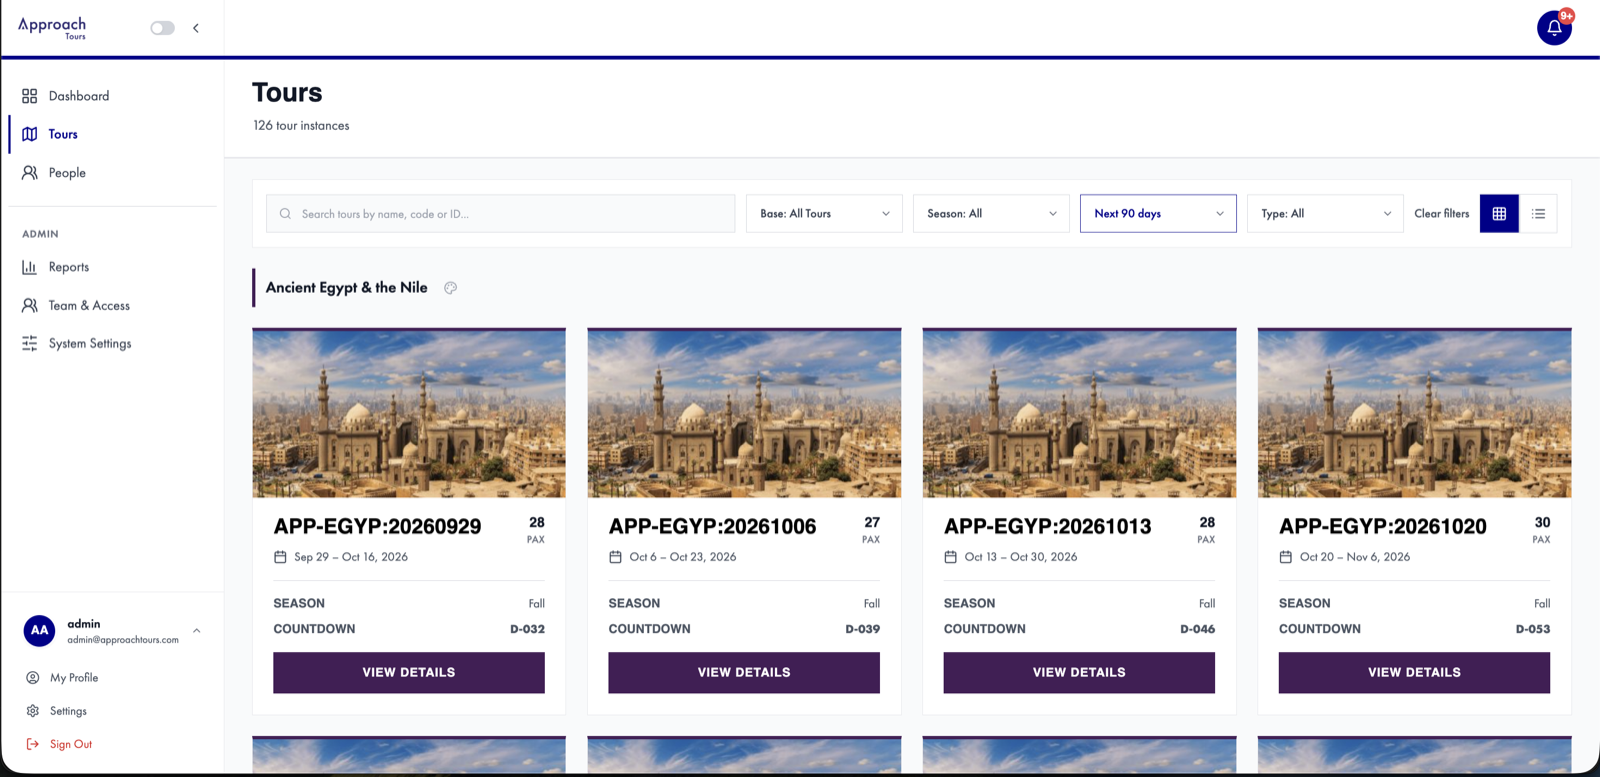
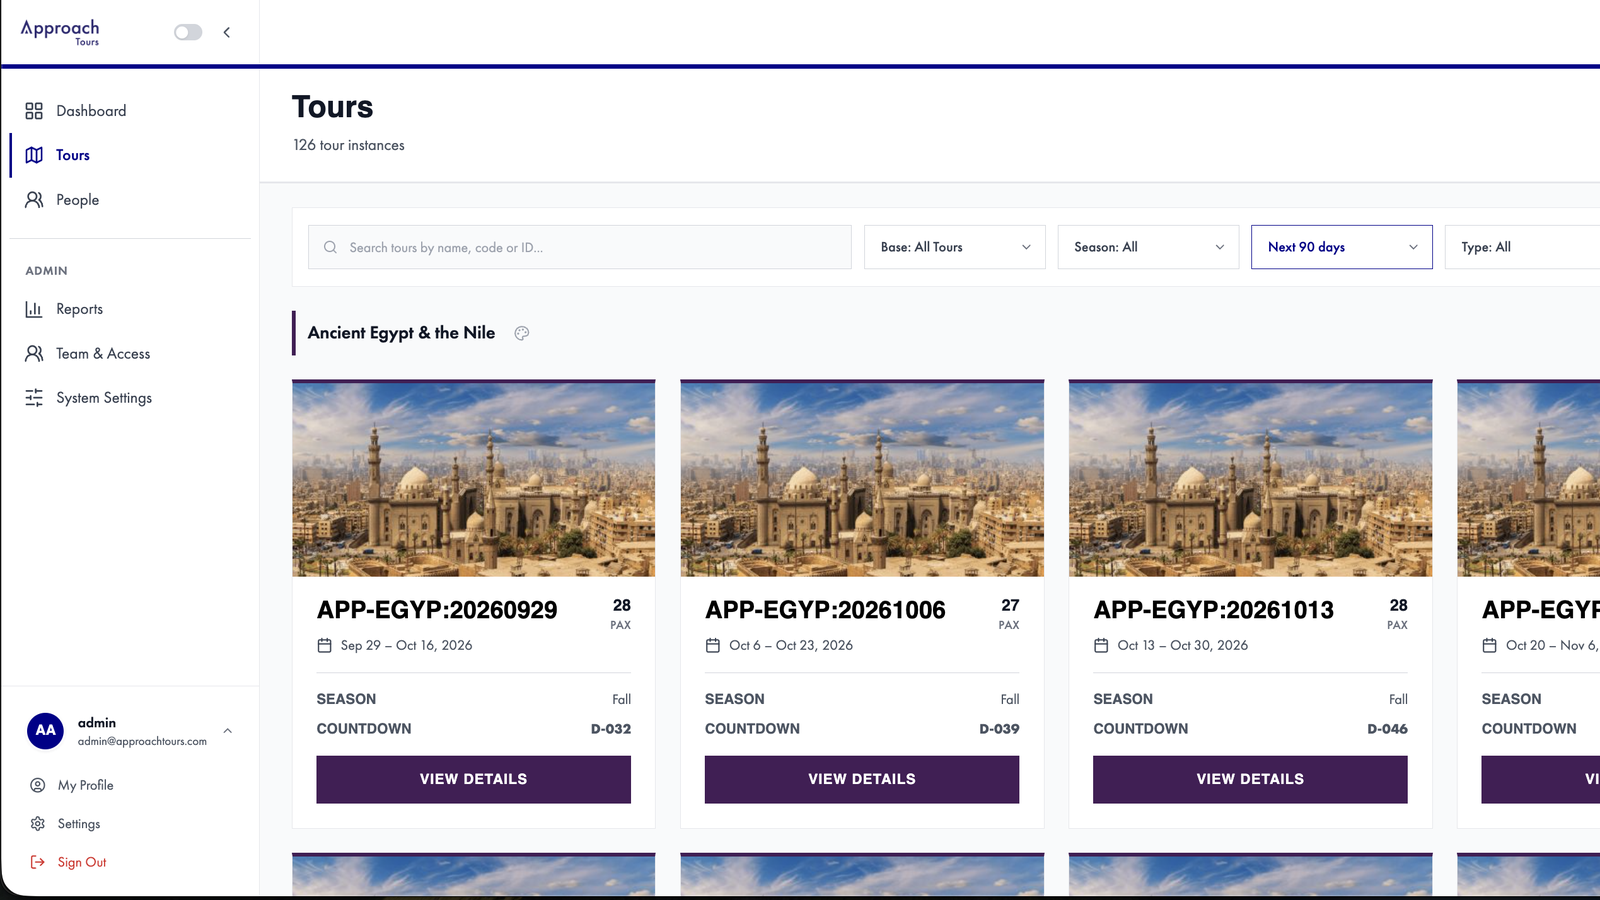
Adiciona capa do Passaporte Acessível e corrige recorte do T-Hub
- Recorta ambas as imagens em 16:9 preservando a lateral esquerda
  (evita cortar o menu/sidebar no centro do card)
- Passaporte Acessível ganha imagem de capa real

diff --git a/src/app/data/ellen.ts b/src/app/data/ellen.ts
@@ -635,7 +635,7 @@ export const data = {
       links: [],
       media: [],
       supporters: [],
-      thumb: ""
+      thumb: `${import.meta.env.BASE_URL}passaporte-acessivel-hero.png`
     }
   ],
   
